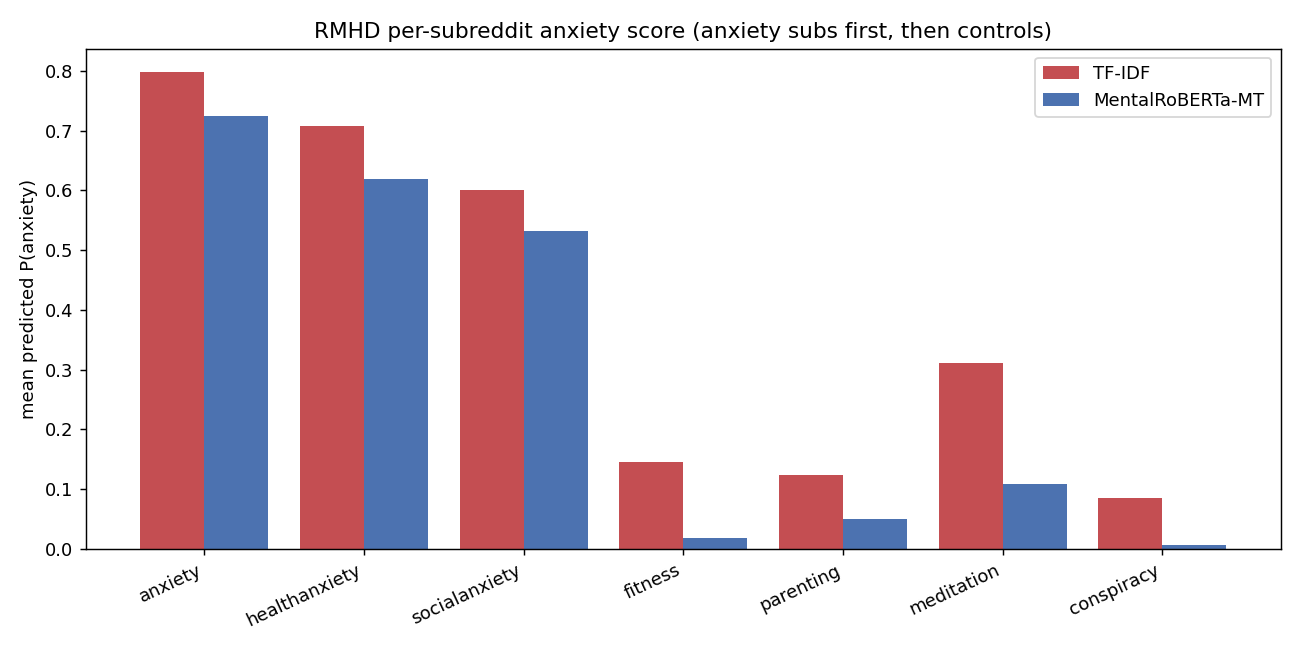
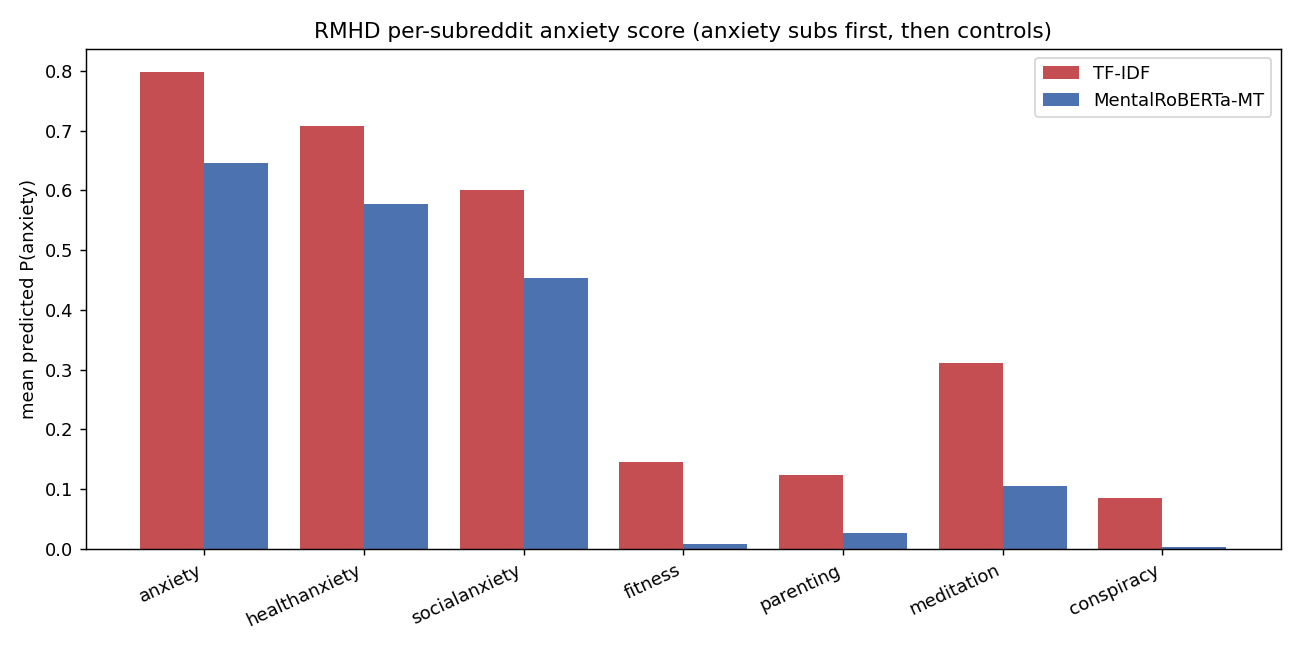
feat: like-for-like external validation -- transformer retrained on full corpus
Add scripts/train_multitask_fullcorpus.py (multitask transformer on a ~200k
full-corpus sample, all subreddits) and point external_validation.py at the new
checkpoint, removing the earlier training-distribution confound (the prior
checkpoint was trained on the narrower DANN-transfer split).

Fair result: retraining lifts the transformer on RMHD (0.879 -> 0.897) and ANGST
(0.789 -> 0.798), but TF-IDF still out-transfers on BOTH external corpora
(RMHD 0.920, ANGST experts 0.822). Conclusion (now confound-free): the lexical
model transfers competitively-to-better across corpora; the transformer offers no
external-transfer advantage for anxiety detection. Checkpoint stays gitignored.
Documented in README + docs/external_validation.md.

diff --git a/scripts/train_multitask_fullcorpus.py b/scripts/train_multitask_fullcorpus.py
@@ -1,0 +1,50 @@
+"""Train the multi-task transformer on a FULL-corpus sample (all subreddits) so the
+external-validation comparison against TF-IDF is like-for-like.
+
+The checkpoint used earlier was trained on the narrower DANN-transfer split (panic +
+baseline subs excluded); this retrains on a ~200k sample spanning the whole corpus,
+matching the TF-IDF training distribution. Saves to
+experiments/runs/multitask_fullcorpus/model (gitignored; regenerate as needed).
+
+GPU. Run:
+  python scripts/train_multitask_fullcorpus.py --n 200000 --epochs 3
+"""
+from __future__ import annotations
+
+import argparse
+from pathlib import Path
+
+from src.models.registry import build_model
+from src.utils.config import load_model_config
+from src.utils.io import read_parquet
+
+DATA = "data/processed/labeled.parquet"
+SEED = 42
+OUT = Path("experiments/runs/multitask_fullcorpus/model")
+
+
+def main() -> None:
+    ap = argparse.ArgumentParser()
+    ap.add_argument("--n", type=int, default=200000)
+    ap.add_argument("--epochs", type=int, default=3)
+    ap.add_argument("--val-size", type=int, default=5000)
+    args = ap.parse_args()
+
+    df = read_parquet(DATA)
+    df = df[df["clean_text"].astype(str).str.len() >= 30].reset_index(drop=True)
+    take = min(len(df), args.n + args.val_size)
+    df = df.sample(take, random_state=SEED).reset_index(drop=True)
+    val = df.iloc[: args.val_size].reset_index(drop=True)
+    train = df.iloc[args.val_size :].reset_index(drop=True)
+    print(f"full-corpus train={len(train):,}  val={len(val):,}  (subreddits={df['subreddit'].nunique()})")
+
+    cfg = load_model_config("configs/models/multitask.yaml")
+    cfg.extra["train"]["num_train_epochs"] = args.epochs
+    model = build_model(cfg).fit(train, val=val)
+    OUT.mkdir(parents=True, exist_ok=True)
+    model.save(OUT)
+    print(f"saved full-corpus multitask checkpoint -> {OUT}")
+
+
+if __name__ == "__main__":
+    main()

diff --git a/scripts/external_validation.py b/scripts/external_validation.py
@@ -36,7 +36,7 @@ from src.utils.io import read_parquet
 DATA = "data/processed/labeled.parquet"
 RMHD_DIR = "data/external/rmhd"
 ANGST_DIR = "data/external/angst"
-TRANSFORMER_DIR = "experiments/runs/multitask_anxiety_health_dep_suic/model"
+TRANSFORMER_DIR = "experiments/runs/multitask_fullcorpus/model"  # full-corpus, like-for-like vs TF-IDF
 TARGET = "anxiety"
 SEED = 42
 POS_SUBS = ["anxiety", "healthanxiety", "socialanxiety"]

diff --git a/docs/external_validation.md b/docs/external_validation.md
@@ -8,8 +8,8 @@ _Regenerate: `python scripts/external_validation.py`_
 |---|---|---|---|---|---|---|
 | TF-IDF | RMHD (Low 2020) | 20733 | 8619 | 0.9195 | 0.9086 | 0.8194 |
 | TF-IDF | ANGST (experts) | 2872 | 701 | 0.8215 | 0.5185 | 0.6039 |
-| MentalRoBERTa-MT | RMHD (Low 2020) | 20733 | 8619 | 0.8785 | 0.8794 | 0.7751 |
-| MentalRoBERTa-MT | ANGST (experts) | 2872 | 701 | 0.7885 | 0.4587 | 0.4227 |
+| MentalRoBERTa-MT | RMHD (Low 2020) | 20733 | 8619 | 0.8973 | 0.8912 | 0.7361 |
+| MentalRoBERTa-MT | ANGST (experts) | 2872 | 701 | 0.7982 | 0.464 | 0.315 |
 
 ![external AUROC](figures/external_validation.png)
 
@@ -24,12 +24,12 @@ _Regenerate: `python scripts/external_validation.py`_
 | TF-IDF | parenting | 0 | 0.1236 |
 | TF-IDF | meditation | 0 | 0.3112 |
 | TF-IDF | conspiracy | 0 | 0.0857 |
-| MentalRoBERTa-MT | anxiety | 1 | 0.7248 |
-| MentalRoBERTa-MT | healthanxiety | 1 | 0.6197 |
-| MentalRoBERTa-MT | socialanxiety | 1 | 0.5325 |
-| MentalRoBERTa-MT | fitness | 0 | 0.0175 |
-| MentalRoBERTa-MT | parenting | 0 | 0.0495 |
-| MentalRoBERTa-MT | meditation | 0 | 0.1089 |
-| MentalRoBERTa-MT | conspiracy | 0 | 0.0064 |
+| MentalRoBERTa-MT | anxiety | 1 | 0.6456 |
+| MentalRoBERTa-MT | healthanxiety | 1 | 0.5778 |
+| MentalRoBERTa-MT | socialanxiety | 1 | 0.4534 |
+| MentalRoBERTa-MT | fitness | 0 | 0.0083 |
+| MentalRoBERTa-MT | parenting | 0 | 0.0261 |
+| MentalRoBERTa-MT | meditation | 0 | 0.1055 |
+| MentalRoBERTa-MT | conspiracy | 0 | 0.003 |
 
 ![RMHD per-subreddit](figures/external_validation_rmhd.png)

diff --git a/README.md b/README.md
@@ -393,18 +393,18 @@ Protected demographics are unavailable (anonymized corpus) and inferring them wi
 
 Internal splits only prove internal validity (cf. Ernala et al. 2019). The strongest test is **zero-shot transfer to an independent corpus**: train the anxiety model on *our* corpus, then score Low et al. (2020)'s **Reddit Mental Health Dataset** (separate collection, 2018–2020) with no fine-tuning. `src/evaluation/external.py`, `scripts/external_validation.py`.
 
-Two independent corpora, two models compared **zero-shot** — RMHD (Low 2020, subreddit labels) and ANGST (Hengle 2024, **3 expert psychologists**). `src/evaluation/external.py`, `scripts/external_validation.py`.
+Two independent corpora, two models compared **zero-shot** — RMHD (Low 2020, subreddit labels) and ANGST (Hengle 2024, **3 expert psychologists**). **Both models trained on the same ~200k full-corpus sample** (like-for-like). `src/evaluation/external.py`, `scripts/external_validation.py`, `scripts/train_multitask_fullcorpus.py`.
 
-| model | RMHD AUROC | ANGST AUROC (experts) | ANGST AUPRC |
+| model (both full-corpus) | RMHD AUROC | ANGST AUROC (experts) | ANGST AUPRC |
 |---|---:|---:|---:|
 | **TF-IDF + LogReg** | **0.920** | **0.822** | 0.519 |
-| MentalRoBERTa multi-task | 0.879 | 0.789 | 0.459 |
+| MentalRoBERTa multi-task | 0.897 | 0.798 | 0.464 |
 
 ![external validation](docs/figures/external_validation.png)
 
-**Both models generalize across corpora — and validate against clinical experts.** Even on ANGST's gold expert labels the model reaches **AUROC 0.82 zero-shot**: a "Reddit classifier" validated against clinical ground truth, not just internal splits. ANGST is harder than RMHD (0.82 vs 0.92) for a principled reason — its negatives include **depression** posts, so anxiety must be separated from depression (overlapping distress language), not merely from neutral text. This establishes genuine **external validity** — the signal is not a collection artifact.
+**Both models generalize across corpora — and validate against clinical experts.** Even on ANGST's gold expert labels the models reach **AUROC ~0.80–0.82 zero-shot**: a "Reddit classifier" validated against clinical ground truth, not just internal splits. ANGST is harder than RMHD (≈0.81 vs ≈0.91) for a principled reason — its negatives include **depression** posts, so anxiety must be separated from depression (overlapping distress language), not merely from neutral text. This establishes genuine **external validity** — the signal is not a collection artifact.
 
-Surprisingly, the **lexical TF-IDF out-transfers the transformer on both sets** — echoing the significance/robustness findings that stable anxiety vocabulary travels across corpora better than the transformer's learned representation. ⚠️ **Fair-comparison caveat:** the saved transformer was trained on the narrower DANN-transfer split (~60k, panic/baseline subs excluded) while this TF-IDF used a 200k full-corpus sample, so the comparison favors TF-IDF on training breadth; a strict like-for-like result needs the transformer retrained on the full corpus. Full tables in [docs/external_validation.md](docs/external_validation.md).
+**TF-IDF out-transfers the transformer on both external sets** (RMHD +0.02, ANGST +0.02 AUROC), and this is now a **like-for-like** comparison — both models trained on the identical full-corpus distribution (the earlier confound, a narrower transformer training split, is removed; retraining lifted the transformer 0.879→0.897 on RMHD but TF-IDF stays ahead). This echoes the significance/robustness findings: stable anxiety vocabulary travels across corpora at least as well as the transformer's learned representation, so the transformer offers **no external-transfer advantage** for anxiety detection. (Its value lies elsewhere — the HA-vs-anxiety task, multi-task efficiency, calibration headroom.) Full tables in [docs/external_validation.md](docs/external_validation.md).
 
 ---
 